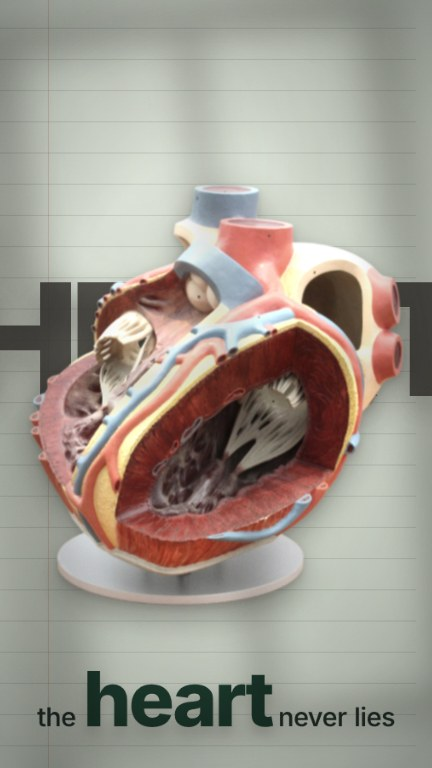
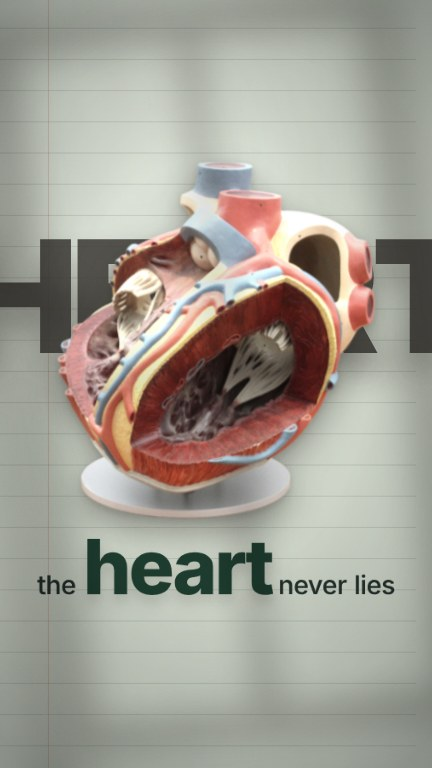
Publishing to YouTube Shorts + Instagram Reels; fuller sound; captions above the platform UI; varied looks
- skill 09-publish + ./sv post pack|check|host|done: posting pack after --final
  (facts, required credits, hook cover), reach-focused writing rules, validation,
  posting through the agent's Composio tools, links logged (never post twice).
- START.md: publish step (start no-post to skip); re-watch recent videos and
  pick theme + backdrop by the story's energy (ember/smoke is not a default).
- Sound: music always, fitted to the story's emotion; an ambience bed throughout;
  cues on their words; planned silence only.
- Templates: captions stay above y=1480 so the Shorts/Reels overlay never hides
  them (object-hero, word-behind, card-stack, photo-full); gallery re-rendered.

diff --git a/engine/src/templates/index.tsx b/engine/src/templates/index.tsx
@@ -13,6 +13,9 @@ import {EASE, clamp01, float, prog} from '../lib/anim';
 export type Ctx = {scene: CompiledScene; pack: Pack};
 
 const firstAt = (s: CompiledScene) => Math.max(0, Math.min(...s.words.map((w) => w.start), s.duration) - 6);
+// Shorts / Reels overlay the bottom ~22 % (caption, channel, audio) and the lower right (buttons):
+// no caption may extend below SAFE_BOTTOM.
+const SAFE_BOTTOM = 1480;
 /** Entrance frame for a slot: lands on the word that names it (compiler anchor), else the scene's first word. */
 const slotAt = (s: CompiledScene, slot: string) => (s.anchors?.[slot] !== undefined ? Math.max(0, s.anchors[slot] - 5) : firstAt(s));
 /** the big background word rises onto the spoken word it stands for (BigWord already leads by a few frames) */
@@ -46,16 +49,16 @@ const TypeCenter: React.FC<Ctx> = ({scene, pack}) => {
 const ObjectHero: React.FC<Ctx> = ({scene, pack}) => {
 	const obj = asImage(scene.slots.object);
 	const v = scene.variant % 3;
-	const textY = v === 1 ? 1530 : 470;
-	const objY = v === 1 ? 900 : 1170;
+	const textY = v === 1 ? SAFE_BOTTOM : 470;
+	const objY = v === 1 ? 820 : 1170;
 	return (
 		<AbsoluteFill>
 			{obj ? (
-				<Cutout slot={obj} pack={pack} cx={540} cy={objY} maxW={v === 2 ? 980 : 880} maxH={v === 1 ? 900 : 980} at={slotAt(scene, 'object')} enter={v === 2 ? 'pop' : 'rise'} echo={pack.id === 'atelier'} seed={scene.from} />
+				<Cutout slot={obj} pack={pack} cx={540} cy={objY} maxW={v === 2 ? 980 : 880} maxH={v === 1 ? 820 : 980} at={slotAt(scene, 'object')} enter={v === 2 ? 'pop' : 'rise'} echo={pack.id === 'atelier'} seed={scene.from} />
 			) : (
 				<Missing what="object" />
 			)}
-			<KineticText words={scene.words} pack={pack} box={{sceneEnd: scene.duration, x: 80, y: textY, width: 920, align: v === 2 ? 'left' : 'center'}} />
+			<KineticText words={scene.words} pack={pack} box={{sceneEnd: scene.duration, x: 80, y: textY, width: 920, align: v === 2 ? 'left' : 'center', ...(v === 1 ? {anchor: 'bottom' as const} : {})}} />
 		</AbsoluteFill>
 	);
 };
@@ -84,9 +87,9 @@ const WordBehind: React.FC<Ctx> = ({scene, pack}) => {
 	const wide = !!obj && obj.width / Math.max(1, obj.height) > 1.25;
 	return (
 		<AbsoluteFill>
-			<BigWord text={big} pack={pack} cy={wide ? 640 : 880} at={bigAt(scene)} />
-			{obj ? <Cutout slot={obj} pack={pack} cx={540} cy={wide ? 1030 : 990} maxW={wide ? 860 : 900} maxH={wide ? 600 : 1060} at={slotAt(scene, 'object') + 4} enter="zoom" seed={scene.from} floatAmp={6} /> : <Missing what="object" />}
-			<KineticText words={scene.words.filter((w) => w.text !== big)} pack={pack} box={{sceneEnd: scene.duration, x: 80, y: 1790, anchor: 'bottom', width: 920, scale: 0.85}} />
+			<BigWord text={big} pack={pack} cy={wide ? 520 : 780} at={bigAt(scene)} />
+			{obj ? <Cutout slot={obj} pack={pack} cx={540} cy={wide ? 820 : 860} maxW={wide ? 820 : 880} maxH={wide ? 500 : 860} at={slotAt(scene, 'object') + 4} enter="zoom" seed={scene.from} floatAmp={6} /> : <Missing what="object" />}
+			<KineticText words={scene.words.filter((w) => w.text !== big)} pack={pack} box={{sceneEnd: scene.duration, x: 80, y: SAFE_BOTTOM, anchor: 'bottom', width: 920, scale: 0.85}} />
 		</AbsoluteFill>
 	);
 };
@@ -98,7 +101,7 @@ const PhotoFull: React.FC<Ctx> = ({scene, pack}) => {
 	return (
 		<AbsoluteFill>
 			{media ? <FullMedia slot={media} pack={pack} dur={scene.duration + scene.exit} scrim={top ? 'top' : 'bottom'} zoom={scene.variant % 3 === 2 ? [1.0, 1.12] : [1.14, 1.0]} /> : <Missing what="photo" />}
-			<KineticText words={scene.words} pack={pack} box={{sceneEnd: scene.duration, x: 80, y: top ? 480 : 1300, width: 920, fill: 104}} />
+			<KineticText words={scene.words} pack={pack} box={{sceneEnd: scene.duration, x: 80, y: top ? 480 : SAFE_BOTTOM, anchor: top ? 'center' : 'bottom', width: 920, fill: 104}} />
 		</AbsoluteFill>
 	);
 };
@@ -122,10 +125,10 @@ const PhotoFramed: React.FC<Ctx> = ({scene, pack}) => {
 
 /* 7 ─ card-stack: 2–4 photo cards fly in one by one on the narration, stacking */
 const CARD_SPOTS = [
-	{cx: 360, cy: 800, rot: -9, from: 'left' as const},
-	{cx: 720, cy: 930, rot: 8, from: 'right' as const},
-	{cx: 470, cy: 1120, rot: -3, from: 'bottom' as const},
-	{cx: 760, cy: 1230, rot: 6, from: 'right' as const},
+	{cx: 360, cy: 640, rot: -9, from: 'left' as const},
+	{cx: 720, cy: 770, rot: 8, from: 'right' as const},
+	{cx: 470, cy: 950, rot: -3, from: 'bottom' as const},
+	{cx: 760, cy: 1050, rot: 6, from: 'right' as const},
 ];
 const CardStack: React.FC<Ctx> = ({scene, pack}) => {
 	const imgs = asImages(scene.slots.photos).slice(0, 4);
@@ -138,7 +141,7 @@ const CardStack: React.FC<Ctx> = ({scene, pack}) => {
 					return <PhotoCard key={i} slot={img} pack={pack} cx={scene.variant % 2 ? 1080 - s.cx : s.cx} cy={s.cy} w={450} h={560} rotate={s.rot} at={wordAt(scene, i / imgs.length)} from={s.from} seed={i + scene.from} />;
 				})}
 			</Flat3D>
-			<KineticText words={scene.words} pack={pack} box={{sceneEnd: scene.duration, x: 80, y: 1600, width: 920, scale: 0.95}} />
+			<KineticText words={scene.words} pack={pack} box={{sceneEnd: scene.duration, x: 80, y: SAFE_BOTTOM, anchor: 'bottom', width: 920, scale: 0.95}} />
 		</AbsoluteFill>
 	);
 };

diff --git a/skills/09-publish/SKILL.md b/skills/09-publish/SKILL.md
@@ -1,0 +1,88 @@
+---
+name: 09-publish
+description: Publish a finished video as a YouTube Short and an Instagram Reel — write the title, description, tags, caption and hashtags for maximum reach, validate them, and post through the agent's own tools (Composio YouTube + Instagram), then log the links. Use after `./sv render <slug> --final`, at the end of START.md, or whenever asked to post / publish / upload a video.
+---
+
+# 09 · Publish — YouTube Shorts + Instagram Reels
+
+## 0 · Before posting (all must be true)
+- `06-render/final.mp4` exists and the director's scorecard has every line ≥ 4.
+- `./sv post status <slug>` is empty — **never post a video twice** (it is logged in `06-render/post/posted.json`
+  and in the `posted` column of `history/STORIES.md`).
+- Your tools include **Composio YouTube** (upload video, update video…) and **Composio Instagram** (create
+  media container, publish media). No tools / not connected → do steps 1–3, then stop and tell the user
+  exactly which account to connect. Never invent a posting method.
+
+## 1 · The posting pack
+`./sv render <slug> --final` writes `06-render/post/post.json` (or `./sv post pack <slug>`): read-only `facts`
+(title, source, hook, direction, duration, look, **creditsRequired**, generated images, AI narration), the
+`cover` (the hook frame, `cover.jpg` — look at it) and empty `youtube` / `instagram` fields you fill.
+
+## 2 · Write for reach — how both platforms decide
+Both show a new Short/Reel to a small test audience, then push it further if people **stop** (first 1–2 s),
+**watch to the end and rewatch** (our loop ending), **share / send** (Instagram's strongest signal),
+**save**, **comment** and **follow**. They read your **words** (title, caption, on-screen text, speech) to
+know *who* to show it to and to rank it in **search**. So every field has one job:
+
+**YouTube `title`** (≤ 60 characters — longer is cut on phones)
+- The hook's promise in words people search: the story's name or its most intriguing fact.
+  *The Pied Piper Was Real* · *130 Children Vanished in 1284* · *The Wish That Killed His Son*.
+- Curiosity, never a lie: the video must pay it off. No ALL CAPS, no hashtags, at most one emoji, don't spoil the twist.
+
+**YouTube `description`**
+1. Line 1: one sentence with the main keywords (story, author, "true story" / "legend" / "horror story").
+2. One or two lines of intrigue that tease — never reveal — the twist.
+3. `Source:` author (year), public domain / the records used.
+4. Credits: every `facts.creditsRequired` item — *"Photo: "Boat cradle" by quinet (CC BY 2.0)"*.
+5. 3–5 hashtags at the end: 1 broad + 2–3 niche + 1 story-specific (`#shorts` may be one of them).
+
+**YouTube `tags`** (6–12, ≤ 500 characters): the story name, author, variants and misspellings people type
+(`pied piper`, `pied piper of hamelin`, `hamelin legend`, `dark fairy tales`, `creepy history`).
+**`categoryId`**: 24 Entertainment (tales, legends) · 27 Education (true history). **`madeForKids`: false**
+(dark stories; it also keeps comments on). `defaultLanguage`: `en`. `privacyStatus`: `public`.
+**`containsSyntheticMedia`**: true when a generated image looks realistic (people, places or events a viewer
+could take for real). A fictional AI narrator alone does not require it; never imitate a real person's voice.
+
+**Instagram `caption`** (≤ 2 200 characters; only the first ~125 show before "more")
+1. **Line 1 = the scroll-stopper**: the same promise as the YouTube title in different words, as a sentence.
+2. One teaser line, then **one action line** that earns sends or comments — *"Send this to the friend who
+   loves dark history."* / *"Would you have paid the piper?"* — a real question, not "like and follow".
+3. `Source:` line and the credits (same as YouTube). No links (not clickable on Reels).
+4. 3–5 hashtags at the very end (1 broad + 2–3 niche + 1 story-specific): `#darkhistory #folklore #legends #piedpiper`.
+**`shareToFeed`: true** (also on the profile grid). **`thumbOffsetMs`** = the cover frame (already set).
+
+**Comments** (if your tools can): YouTube `pinnedComment` / Instagram `firstComment` = a question that
+splits opinions, or the one extra fact that did not fit (*"The street where they vanished still forbids music."*).
+**Series**: if a playlist fits (`youtube.playlist`, e.g. "Twist Endings"), add the Short to it.
+
+Keywords everywhere, stuffing nowhere: the story's name, author and genre in title, first lines and tags.
+Never promise what the video does not deliver; never "banned", "they don't want you to know", fake urgency.
+
+## 3 · Check
+`./sv post check <slug>` → **0 errors**: lengths, hashtags, `madeForKids`, every required credit present on
+both platforms, the hook echoed in the title / first line. Fix warnings unless you can say why not.
+
+## 4 · Post (Composio)
+Read each tool's parameters first; map the fields of `post.json` onto them.
+1. **YouTube Short** — upload `06-render/final.mp4` with title, description, tags, `categoryId`,
+   `privacyStatus: public`, made-for-kids false, `defaultLanguage`, synthetic-media flag. If the upload tool
+   cannot read a local file, give it the public URL from step 2. Vertical and < 3 minutes → it is a Short.
+   Link: `https://youtube.com/shorts/<videoId>`. Then (if tools allow) playlist and pinned comment.
+2. **Public URL for Instagram**: `./sv post host <slug>` → a direct `.mp4` link valid 24 h (the video is about
+   to be public anyway). Stored in `post.json → publicVideoUrl`.
+3. **Instagram Reel** — create the media container: `media_type: REELS`, `video_url` = that URL, `caption`,
+   `share_to_feed: true`, `thumb_offset` = `thumbOffsetMs`. Wait until the container is processed (poll its
+   status if a tool exists; otherwise wait ~60 s and retry the publish once), then **publish** it and get the
+   permalink. Requires the connected account to be Instagram **Business or Creator**.
+4. `./sv post done <slug> --youtube <url> --instagram <url>` — logs both links (post.json, history).
+Failures: read the error, fix the one wrong parameter, retry **once**. One platform failing never blocks
+the other; report what failed and the exact error. Never delete and re-upload a post to "fix" it.
+
+## 5 · Cadence (when the user asks you to schedule)
+Consistency beats volume: the same time each day, 1 video per day at most at the start. Evenings and lunch
+hours of the target audience work best (US: ~11:00–14:00 and 19:00–22:00 Eastern). YouTube can schedule
+(`privacyStatus: private` + `publishAt`); without a schedule request, post now.
+
+## 6 · Report
+The two links, the title and first caption line you chose (and why), the hashtags, and anything that
+failed or needs the user (e.g. Instagram's AI label to add in the app when realistic generated images are used).

diff --git a/START.md b/START.md
@@ -58,6 +58,13 @@ copyright (film versions, modern retellings, living authors); inventing facts to
    `start` has a head start.
 
 ## 2 · Choose the look and the voice (vary them)
+- **First re-watch the last 2–3 videos quickly**: open a frame from each (`ffmpeg -ss 5 -i history/videos/<file>.mp4
+  -frames:v 1 /tmp/last.jpg` or the episode's `06-render/review/stills.jpg`) and note their colour, background
+  and energy. The new video must look **visibly different** — another theme *and* another backdrop.
+- Match the **energy** of the story, not just its genre: cold dread → `abyss`/mist · rot, plague, poison → `venom` ·
+  greed, power → `gilded`/rays · archive truth → `bone`/void · dream, madness, doomed love → `violet` ·
+  blood, fire, violence → `ember` · warmth, childhood → `cream` · calm wisdom → `sage` · love, letters → `blush`
+  · science, investigation → `slate`. `ember`/smoke is **not** a default: use it only when the story is truly red.
 - **Pack + theme** by the story's feeling (`./sv looks`, `engine/gallery/looks.jpg`), **not the theme of either
   of the last two videos** in the history table. A colour that matters to the story must survive the theme.
 - **Narrator** cast for this story (who would tell it? age, gender, temperament, accent of the place) —
@@ -103,11 +110,18 @@ image count. Reuse the established workflow and current task context; focus effo
 covering a face, no accidental subject cropping at the strongest zoom or camera movement) → fill the director's scorecard in `06-render/review/report.md` (every line ≥ 4, voice and
 sound = "user to check") → `./sv render <slug> --final` (logs the story in history, copies the video).
 
-## 7 · Report to the user (short)
+## 7 · Publish (skill 09) — YouTube Shorts + Instagram Reels
+Unless the user said `start no-post`: follow `skills/09-publish/SKILL.md` — fill `06-render/post/post.json`
+(title, description, tags, caption, hashtags written for reach), `./sv post check <slug>` (0 errors), post with
+the Composio YouTube and Instagram tools, then `./sv post done <slug> --youtube <url> --instagram <url>`.
+Tools not connected → leave the pack ready and say which account to connect.
+
+## 8 · Report to the user (short)
 - The story, its source and **why it won** (the winning scores, one line on the twist) + the runners-up added
   to the backlog.
 - Look (pack/theme/backdrop) and narrator, and why they fit.
-- The video path (`history/videos/<date>_<slug>.mp4`), its length, and what you verified by looking.
+- The video path (`history/videos/<date>_<slug>.mp4`), its length, what you verified by looking, and the
+  YouTube + Instagram links (or why not posted).
 - What only the user can check: the voice and the sound (you cannot hear), plus anything you were unsure of.
 
 **The bar**: a stranger watches it on a phone with sound on, stops scrolling in the first second, feels the

diff --git a/skills/06-sound-design/SKILL.md b/skills/06-sound-design/SKILL.md
@@ -26,11 +26,28 @@ Every file has source + licence in `index.json`.
 2. **Ambience beds** — one continuous bed sets the world: `"ambience": [{"sfx": "rain-heavy", "from": "start", "to": "end", "volume": 0.18}]`.
    Layer at most 2. A tension bed (heartbeat-slow → heartbeat-fast, drone) can start at a scene id to
    mark an escalation.
-3. **Music** (optional): `"music": {"id": "<group>", "volume": 0.14}`. Many creators add a trending
-   sound in-app instead — then leave `music: null`.
+3. **Music — always** (no dead air): `"music": {"id": "<group>", "volume": 0.09–0.14}`, chosen for THIS story
+   (see "The sound bed" below). `music: null` only if the user will add a trending sound in the app.
+
+## The sound bed — never silent, never crowded
+Every second has three layers under the voice, each quieter than the last:
+1. **Music** (0.09–0.14) — matches the story's emotion, not just its genre. Listen to the choice through
+   its metadata: `./sv music search "<mood>"` (dark-ambient, horror-score, suspense, mystery, sad-piano,
+   calm-ambient, epic-cinematic, uplifting…). Horror/curse → dark-ambient or horror-score; mystery / true
+   unsolved → mystery or suspense; tragedy / love / loss → sad-piano; legend with wonder → mystery or
+   epic-cinematic (low); parable / gentle → calm-ambient or lofi; hopeful twist → uplifting. Nothing fits?
+   `./sv music fetch "<precise mood> instrumental" --category <mood>` and pick the best. **Never** a track
+   with vocals, a strong beat that fights the narration, or a mood that contradicts the story.
+2. **Ambience** (0.12–0.25) — the place: wind, rain, fire, sea, crowd, church, forest, room tone. Change it
+   when the story moves (`from`/`to` scene ids). At least one bed from start to end.
+3. **Story cues** (0.3–0.9) — what the words name, on their word, in the gaps (`offsetMs`), long ones cut
+   with `durMs`. Aim for **one meaningful cue every ~2–3 s of action**, fewer in calm stretches.
+A motif makes it memorable: one signature sound for the story's object (the pipe's flute, the clock's tick)
+that returns and grows, then stops. Planned silence (`quiet: true`) is the only silence — once, at the peak.
 
 ## Taste rules
-- ≤ 1 story cue per 2 scenes; silence before a reveal makes the reveal louder.
+- Enough to be cinematic, never so much the voice fights it: max 2 beds + music, never 3 cues on one frame.
+- Silence before a reveal makes the reveal louder — as a *planned* beat, never as a gap.
 - Sound follows meaning: the heartbeat grows as the guilt grows; it stops at the confession.
 - Never put a cue on every word; never stack three sounds on one frame.
 

diff --git a/AGENTS.md b/AGENTS.md
@@ -29,7 +29,7 @@ AGENTS.md       you are here                 README.md   human quick start
 START.md        "start" = find a new story + make the whole video, autonomously
 sv              the only command you need    ./sv help · ./sv go <slug> · ./sv status <slug>
 config/         studio.json (defaults) · secrets.env (keys — never print or copy)
-skills/         00…08 = the pipeline, in order · KNOWN-MISTAKES.md · _library/ = writing craft references
+skills/         00…09 = the pipeline, in order · KNOWN-MISTAKES.md · _library/ = writing craft references
 engine/         renderer + LOCKED templates: src/templates/catalog.json (the menu), gallery/<pack>.jpg (how each looks)
                 src/looks.json (themes + backdrops), gallery/looks.jpg (how each theme looks)
 banks/          sfx/ music/ images/ devices/ textures/ — reusable, indexed, licensed
@@ -50,6 +50,7 @@ references/     optional, local only (not in the repo): style references you col
 | 5 | images | found **and/or generated** (if you have an image tool); **look at every image**, fix misfits, ✓ verdict per image | `./sv img style` → `./sv assets <slug>` → `05-assets/review.jpg` + `review.md` | skills/05-image-sourcing |
 | 6 | sound | story cues + ambience (transitions are automatic) | in edit.json | skills/06-sound-design |
 | 7 | render | **look at the stills**, score the preview (director's scorecard ≥ 4), render | `./sv stills` → `./sv render` → `./sv render --final` | skills/07-render-review |
+| 8 | publish | title, description, caption, hashtags for reach; post to Shorts + Reels | `./sv post check` → Composio tools → `./sv post done` | skills/09-publish |
 
 `--final` also copies the video to `history/videos/` and logs the story in `history/STORIES.md`.
 Checkpoints with the user (unless told to run on your own): **A** script · **B** narration (they listen — you can't) · **C** stills.

diff --git a/skills/KNOWN-MISTAKES.md b/skills/KNOWN-MISTAKES.md
@@ -46,6 +46,8 @@ must still do. Read the section of each step before doing that step.
   after renumbering, re-check every `ambience` from/to.
 - **The same look every video.** → `theme` + `backdrop` (engine/gallery/looks.jpg); history logs the look.
   **You**: choose the theme by the story's mood, never the same as the last two videos.
+- **Every video looked the same** (ember/smoke by default). → `./sv new` warns without `--theme`. **You**: look at
+  a frame of the last videos first; choose theme + backdrop by the story's energy; justify ember like any other.
 - **A theme contradicted the words**: `bone` (sepia) turned "a coat of *many colours*" grey. **You**: when a
   colour is part of the story (a red cloak, golden hair, a green light), pick a theme that keeps colour
   (`bone` desaturates most, `abyss`/`violet` tint everything) — check those scenes in the stills.
@@ -96,6 +98,8 @@ must still do. Read the section of each step before doing that step.
 - **The Interlopers passed review despite photos appearing cut off.** **You**: source-image approval
   does not approve the rendered framing. Inspect individual scenes at entry, settled position, maximum
   zoom/punch and camera movement, and exit; fix accidental subject clipping before passing (skill 07).
+- **Captions sat under the Shorts/Reels interface** (bottom ~22 %: caption, channel, audio). → every template
+  keeps text above y = 1480. **You**: never rely on anything important in the bottom fifth or lower-right corner.
 - **The gallery showed an empty outro** (captured during its fade). → captured before the fade.
 - **Previews look fine at a glance but a frame is wrong.** **You**: check the contact sheet second by second
   and extract single frames (`ffmpeg -ss <t>`) at every fix you made.

diff --git a/skills/04-scene-assembly/SKILL.md b/skills/04-scene-assembly/SKILL.md
@@ -51,6 +51,10 @@ still match the spoken words, era and setting; source selection follows skill 05
   atelier `grid | plain | lines`.
 - The theme's grade changes every image: `bone` turns photos sepia, `abyss` blue, `venom` green. If a colour
   is part of the story ("a coat of many colours", "a red door"), choose a theme that keeps it.
+- **Look at the last videos before choosing** (a frame of each in `history/videos/`): the new one must
+  differ in colour *and* background. Pick the theme by the story's **energy** (cold, toxic, golden, archival,
+  dreamlike, blood-red, warm, calm, tender, clinical) and the backdrop by its motion (smoke, rays, mist, void
+  / grid, plain, lines). `ember` + `smoke` is not a default — justify it like any other choice.
 - **Never the same theme as the last two videos** (`history/STORIES.md` → look column). Same story mood
   twice in a row? pick the second-best theme, or the same theme with another backdrop.
 

diff --git a/README.md b/README.md
@@ -42,6 +42,7 @@ rendering — so every video looks edited by a meticulous human, and the agent h
 | 5 | images: found / generated, **looked at**, verdict per image | agent + studio | `05-assets/` |
 | 6 | sound: story cues + ambience (the rest is automatic) | agent + studio | in `edit.json` |
 | 7 | render: stills → preview → director's scorecard → final | studio + agent | `06-render/final.mp4` |
+| 8 | publish: title, caption, hashtags → YouTube Shorts + Instagram Reels (Composio) | agent | `06-render/post/` |
 
 The agent follows [`AGENTS.md`](AGENTS.md) and the numbered skills in [`skills/`](skills/) (00 → 08), and
 reads [`skills/KNOWN-MISTAKES.md`](skills/KNOWN-MISTAKES.md) first. `./sv go <slug>` runs every mechanical

diff --git a/skills/README.md b/skills/README.md
@@ -14,5 +14,6 @@ Read [`KNOWN-MISTAKES.md`](KNOWN-MISTAKES.md) first, then each skill when its st
 | 06 | [sound-design](06-sound-design/SKILL.md) | story cues, ambience, music | `edit.json` |
 | 07 | [render-review](07-render-review/SKILL.md) | stills → preview → scorecard → final | `06-render/` |
 | 08 | [bank-builder](08-bank-builder/SKILL.md) | extend templates, themes, sounds (separate task) | `engine/`, `banks/` |
+| 09 | [publish](09-publish/SKILL.md) | titles, captions, hashtags; post to YouTube Shorts + Instagram Reels | `06-render/post/` |
 
 [`_library/`](_library/) holds writing-craft references (hooks, retention, de-slopping) used by skill 01.
